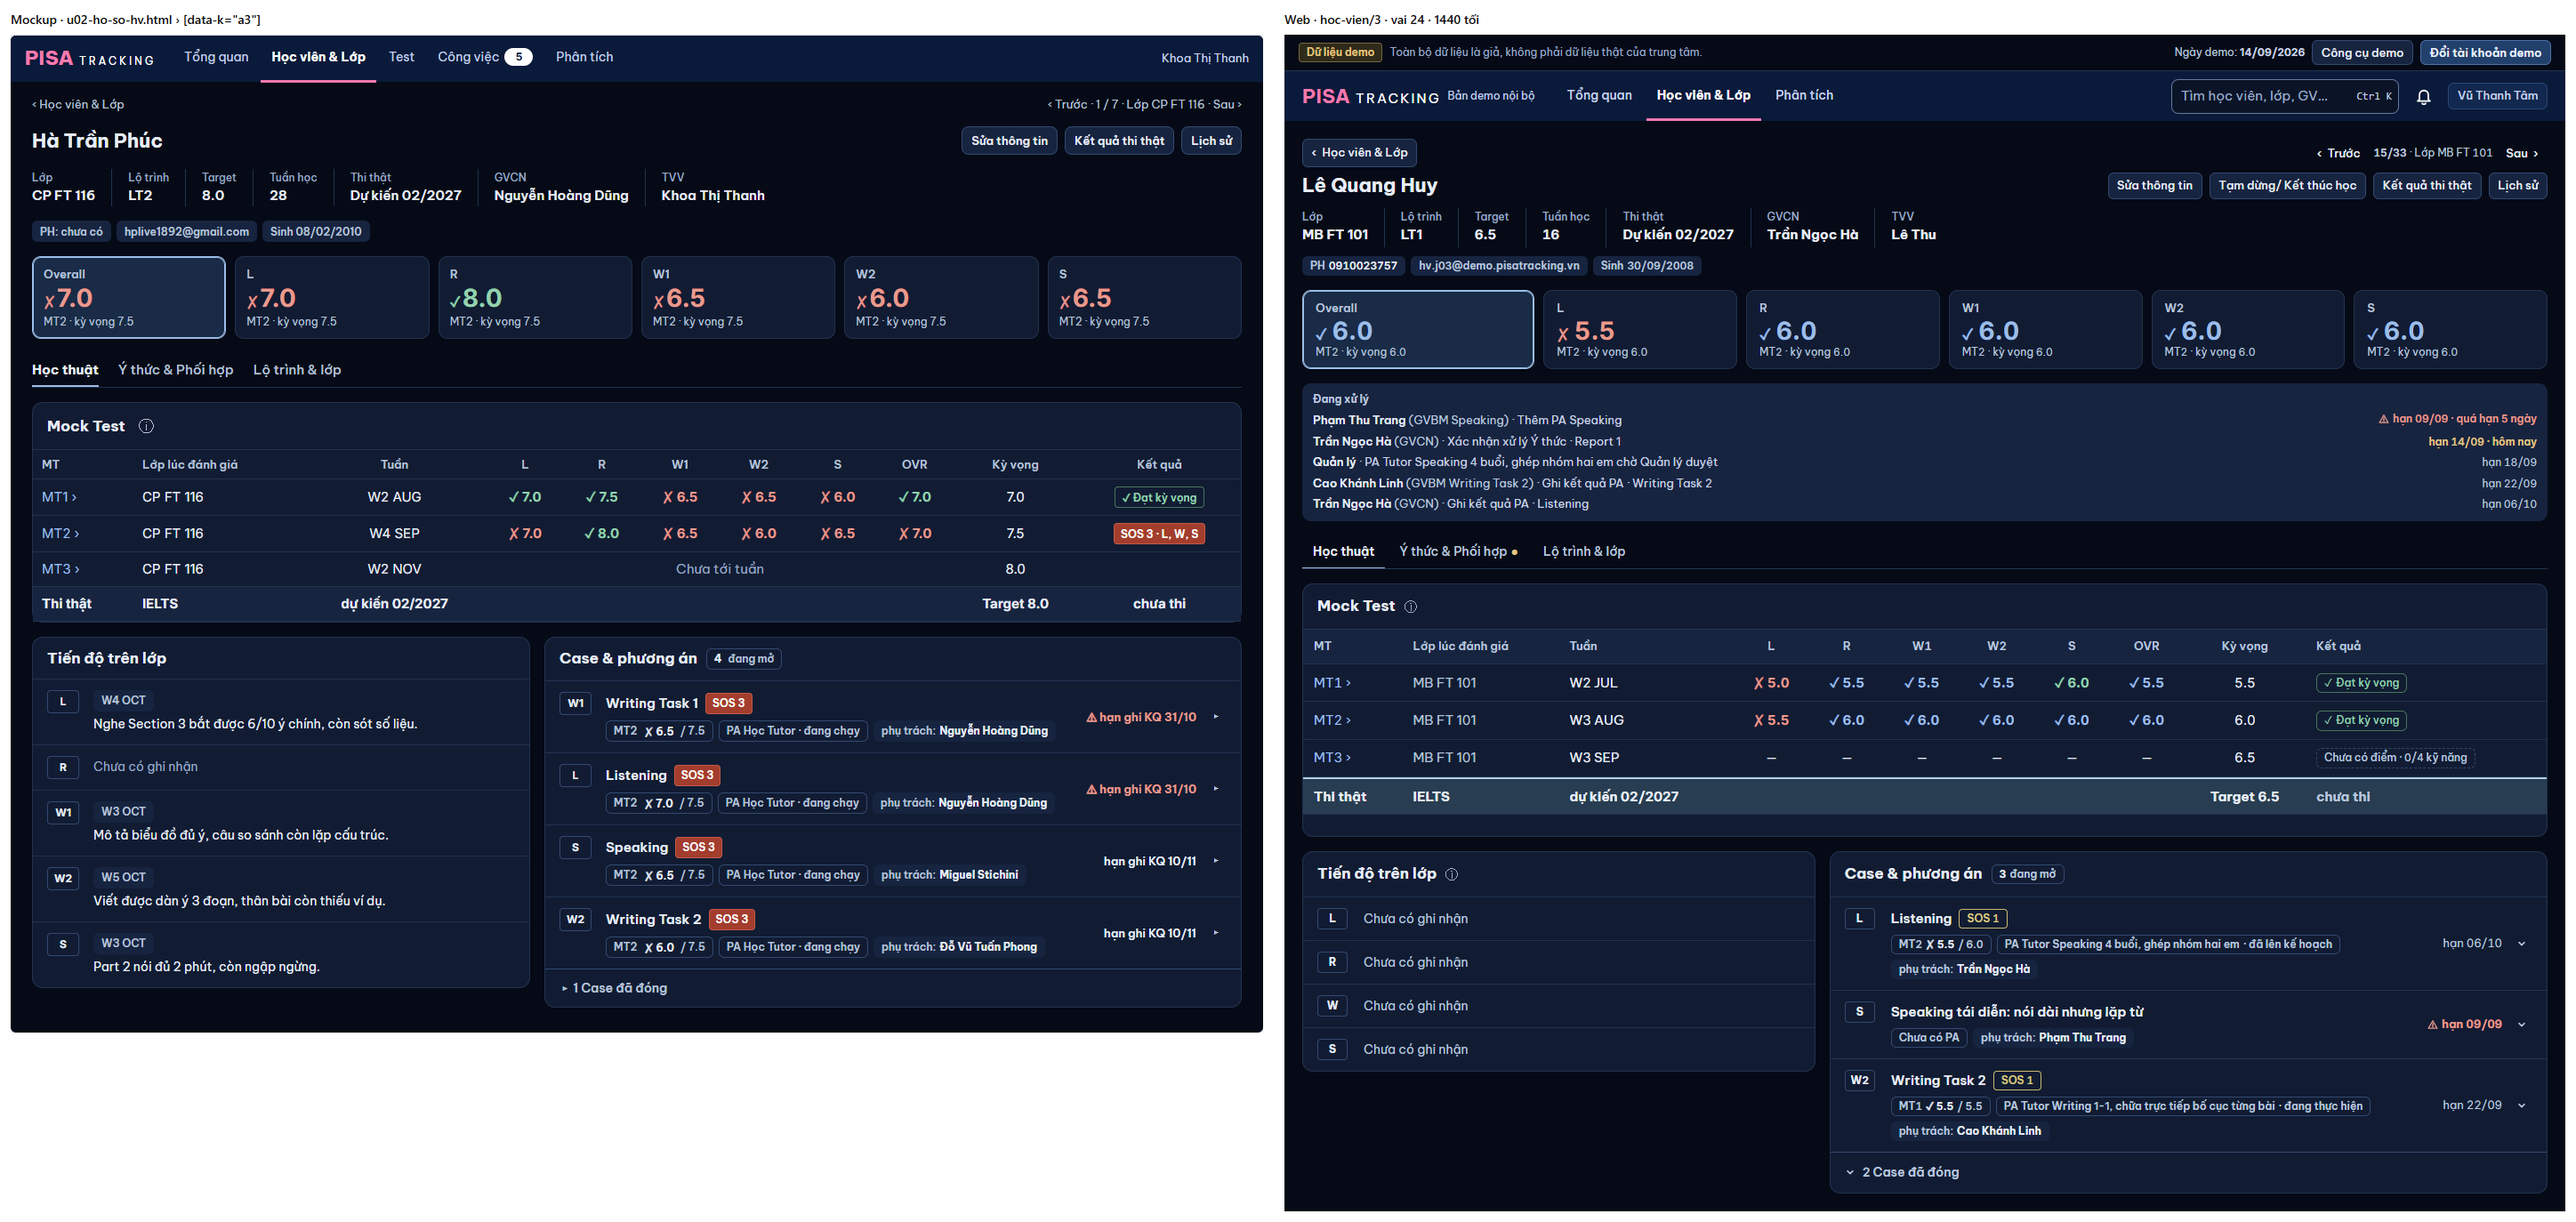
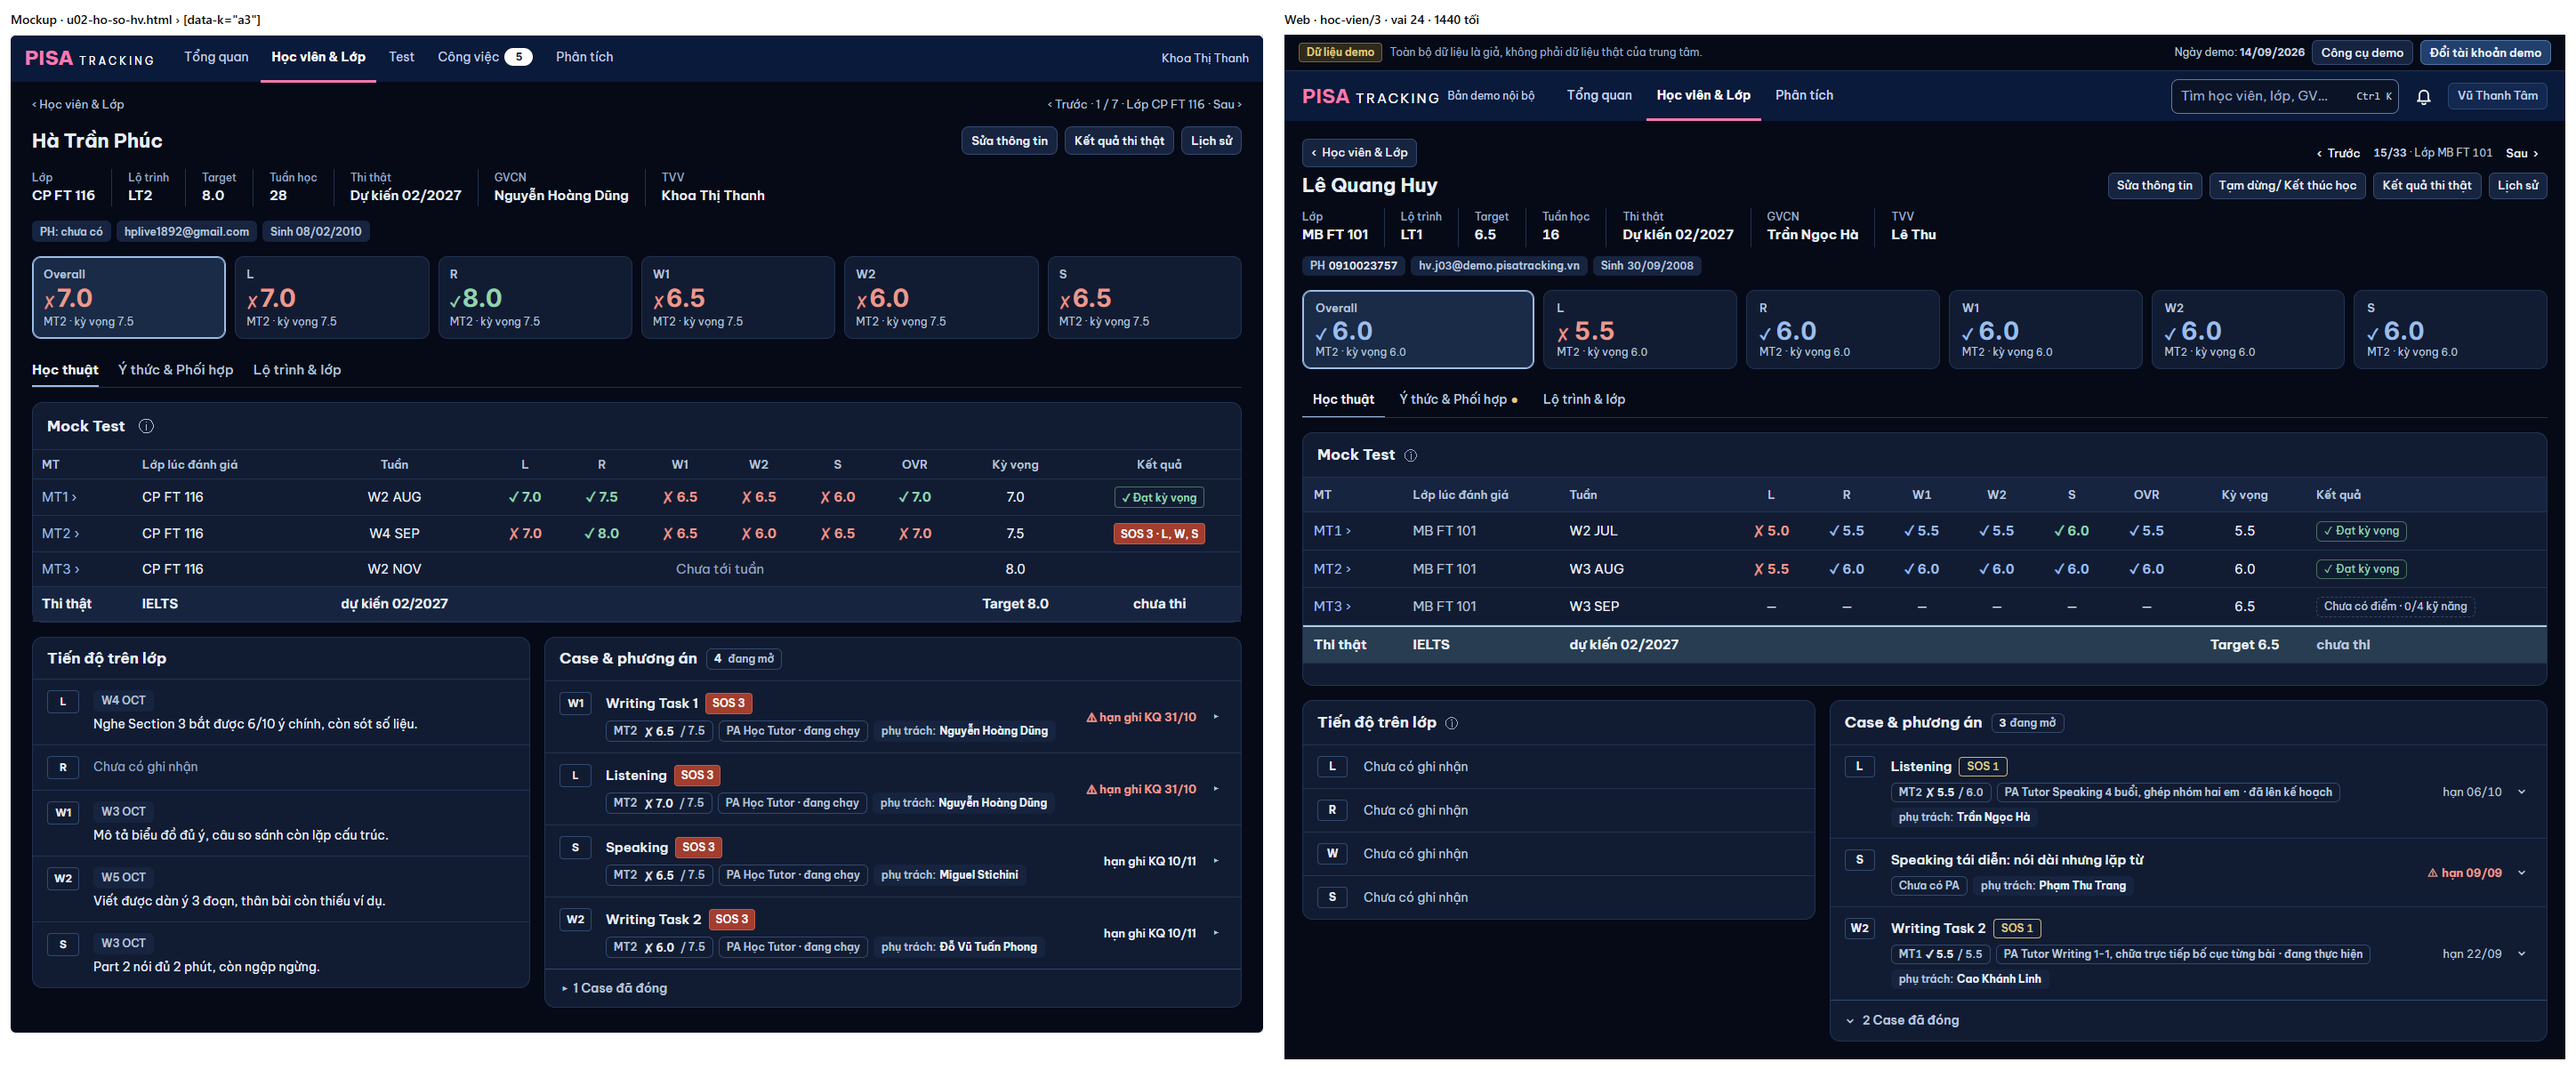
U02: bỏ khối Đang xử lý ở vai xem (chủ SP 04/11, mockup a3 không có); ảnh a3 chụp lại

diff --git a/web/src/modules/students/DauHoSo.tsx b/web/src/modules/students/DauHoSo.tsx
@@ -30,9 +30,6 @@ const dk = (s: string | null | undefined, k?: ChuKhoa | null): string | null => 
 /* EN-SOT: biến chữ máy chủ ghép sẵn ("đến MT2 · Listening", "OVR 7.0 · Đạt Target") dịch theo mẫu như `dich`; tên / mã giữ nguyên. */
 const chuViec = (x: Viec) => dichChu(x.bien ? { ...x, bien: Object.fromEntries(Object.entries(x.bien).map(([k, v]) => [k, typeof v === 'string' ? dich(v) : v])) } : x);
 const nutViec = (x: Viec) => dich(x.nut);
-const vaiViec = (x: Viec) => (x.nguoi.vai ? dich(x.nguoi.vai) : null);
-/** Người không tài khoản ("Quản lý", "Chưa có người phụ trách") là vai — dịch; tên người giữ nguyên. */
-const tenNguoi = (x: Viec) => (x.nguoi.id ? x.nguoi.ten : dich(x.nguoi.ten));
 
 /**
  * DÒNG THÔNG TIN — "em là ai" (UI-HO-SO-HV, khu c `.dau-lop`): nhãn nhỏ xám / giá trị đậm (P2) —
@@ -92,32 +89,6 @@ export function DongLienHe({ l, email, dob, tvv }: { l: LienHe | null | undefine
     <ul aria-label={t('Liên hệ')} className="m-0 flex list-none flex-wrap items-center gap-1.5 p-0">
       {muc.map((m, i) => <li key={i} className="the-phu nhat min-w-0">{m}</li>)}
     </ul>
-  );
-}
-
-/**
- * KHỐI "ĐANG XỬ LÝ" (OV-10b, mockup vai mục 3) — TVV / CX / Admin, chỉ đọc: ai đang làm việc gì với em và hạn — để trả lời phụ huynh không phải hỏi
- * từng người. Cùng nguồn với thanh "Việc của tôi" (`dauHoSo.viec` — luật người làm như Công việc, việc đã xong không có). Không có việc → không vẽ.
- */
-export function DangXuLy({ viec, homNay }: { viec: { cuaBan: Viec[]; nguoiKhac: Viec[] } | null | undefined; homNay: string | null }) {
-  /* Người xem có việc với em → thanh "Việc của tôi" đã có "việc của người khác" (gập) — không vẽ hai lần. */
-  const ds = viec?.cuaBan.length ? [] : viec?.nguoiKhac ?? [];
-  if (!ds.length) return null;
-  return (
-    <section aria-label={t('Đang xử lý')} className="rounded-[10px] bg-[color:var(--surface-2)] px-3 py-[9px]">
-      <h2 className="m-0 mb-1 text-[12px] font-bold  text-slate-400">{t('Đang xử lý')}</h2>
-      <ul className="m-0 flex list-none flex-col gap-1 p-0">
-        {ds.map((x) => (
-          <li key={x.key} className="grid grid-cols-1 items-baseline gap-x-3 gap-y-0.5 text-[13px] sm:grid-cols-[minmax(0,1fr)_auto]">
-            <span className="min-w-0 text-slate-200">
-              <b className="font-semibold text-slate-100">{tenNguoi(x)}</b>{x.nguoi.vai && <span className="text-slate-400"> ({vaiViec(x)})</span>}
-              <span className="text-slate-400"> · </span>{chuViec(x)}
-            </span>
-            <span className="sm:text-right"><HanViec x={x} homNay={homNay} /></span>
-          </li>
-        ))}
-      </ul>
-    </section>
   );
 }
 

diff --git a/web/src/modules/students/StudentDetailPage.tsx b/web/src/modules/students/StudentDetailPage.tsx
@@ -19,7 +19,7 @@ import { PanelBuocTiep } from './PanelBuocTiep.tsx';
 import { HopGiaHan, NhanSauThi } from './HopGiaHan.tsx';
 import { Nhan, NhanKq, NhanLich } from '../../ui/Nhan.tsx';
 import { CHU_DA_XONG } from '@shared/domain/index.ts';
-import { DaiChoDuyet, DaiTamDung, DangXuLy, DongLienHe, DongThongTin, ThanhViec, type Viec } from './DauHoSo.tsx';
+import { DaiChoDuyet, DaiTamDung, DongLienHe, DongThongTin, ThanhViec, type Viec } from './DauHoSo.tsx';
 import { useSession } from '../../lib/session.tsx';
 import { NganCase } from './NganCase.tsx';
 import { MissingBadge } from './MissingBadge.tsx';
@@ -322,7 +322,6 @@ export default function StudentDetailPage() {
 
       {/* UI-HO-SO-HV: thanh Việc cần làm — chỗ DUY NHẤT có việc; bấm = mở đúng chỗ làm ngay tại trang. */}
       <ThanhViec viec={data.dauHoSo.viec} homNay={homNay} onLam={lamViec} />
-      {vaiXem && <DangXuLy viec={data.dauHoSo.viec} homNay={homNay} />}
       {/* PR-VAI-b (V1/K3-47): Quản lý duyệt ngay trong hồ sơ — chỗ của thanh việc (Quản lý không có việc học thuật với em). */}
       {data.viewer.coTheDuyet && <DaiChoDuyet studentId={data.id} homNay={homNay} onDoi={reload} onThemPa={(caseId) => setOpenCase({ caseId, viec: 'them-pa' })} />}
 

diff --git a/docs/anh/u02-ho-so-hv/khop-khac.md b/docs/anh/u02-ho-so-hv/khop-khac.md
@@ -4,7 +4,7 @@ Mockup: `thiet-ke/audit-0311/u02-ho-so-hv.html` (bảng ý `13-ra-ux-a.md` 6c, U
 ngày demo 14/09, phông Be Vietnam Pro đã kiểm `document.fonts.check` = true):
 - `a1-gv-overall-1440-toi.png` — GVBM Speaking (vai 9) · em Lê Quang Huy (id 3) · mặc định Overall · Case của mình mở sẵn
 - `a2-gv-ky-nang-1440-toi.png` — cùng em, bấm ô L · Hành trình + Tiến độ + Case của L
-- `a3-vai-xem-1440-toi.png` — CX (vai 24) · vai xem: nút rời, khối Đang xử lý, không Case nào mở sẵn
+- `a3-vai-xem-1440-toi.png` — CX (vai 24) · vai xem: nút rời, không khối Đang xử lý, không Case nào mở sẵn
 - `b-gv-375-sang.png` — 375: Case trước, Tiến độ sau · bảng Mock Test một dòng mỗi lượt
 - `c-gvcn-nhieu-case-1440-toi.png` — GVCN (vai 7) · Trịnh Bảo Ngọc (id 70) · 4 Case, 2 Case của mình mở sẵn, nút việc ở dòng
 
@@ -24,7 +24,7 @@ ngày demo 14/09, phông Be Vietnam Pro đã kiểm `document.fonts.check` = tru
 | 9 | Một việc một chỗ: nút việc ở dòng tóm tắt; Case mở không lặp (chân giữ Hoàn thành Case) | `anViecChinh`, `anNutMoTa` | KHỚP | c |
 | 13 | Tiêu đề khối 17 / 700 (Mock Test · Hành trình · Tiến độ · Case) | | KHỚP | a1 |
 | 14 | Mock Test: "Chưa tới tuần" một ô; Kết quả "✓ Đạt kỳ vọng" / "SOS n · L, W" (bỏ "Đã đủ điểm", UA-Q4) | `KetQuaMt` | KHỚP | a1, c |
-| 15 | TVV / CX: nút rời, Đang xử lý, không Case mở sẵn, không nút ghi | | KHỚP | a3 |
+| 15 | TVV / CX: nút rời, không Case mở sẵn, không nút ghi; bỏ khối "Đang xử lý" (chủ SP 04/11, mockup a3 không có) | | KHỚP | a3 |
 | 16 | 375: Case trước Tiến độ; thẻ Case gập chỉ 1 dòng + hạn; Mock Test một dòng / lượt | | KHỚP | b |
 | D7 | Bằng chứng trống: "chưa có · + Thêm"; bấm mới mở khung tệp / liên kết | `ThanCase` | KHỚP | a1 |
 | 10 | Hộp hành trình 375 = khay đáy (B3) | — | BỎ ở PR này | → PR U07 (13-ra-ux-a mục 7) |
@@ -63,6 +63,7 @@ KHỚP 15 / 16 dòng có trong PR (bỏ dòng 10 chuyển U07) = 94 %.
 | + Thêm PA · Ghi kết quả · Xác nhận PA · Mô tả Case · Mở lại · Lịch sử · Dịch · ⋯ PA | như cũ, trong Case mở | GIỮ |
 | Thẻ PA đang chạy: chip "Đang chạy" + "kết quả gần nhất W3 OCT …" một dòng | tên + thẻ; nội dung trích; "Kết quả gần nhất: chip · tuần" (panel: + ghi chú) | ĐỔI hình (S4) — "đang chạy" đã ở dòng tóm tắt / đầu mục; ⋯ PA · Ghi kết quả · Cập nhật trước hạn · Chọn người dạy · Chi tiết · Nhật ký PA GIỮ |
 | Trong cột: dòng 🔒 lý do khoá + link lượt "MT1 · W4 AUG" đầu thân Case | lý do khoá ở ⓘ cạnh "Kết luận: chưa có"; mở lượt bằng "MTn ›" của bảng Mock Test cùng trang | ĐỔI vị trí (S6) — không mất thao tác |
+| Vai xem (TVV / CX / Admin): khối "Đang xử lý" dưới thanh việc (ai đang làm gì + hạn) | BỎ | ĐỔI — chủ SP 04/11 "xấu, không cần thì bỏ"; mockup a3 không có. Ai làm + hạn đã ở từng dòng Case (phụ trách · hạn); việc Ý thức ở tab Ý thức & Phối hợp. Không phải thao tác (chỉ đọc) |
 | Bằng chứng: khung kéo thả luôn hiện | "chưa có · + Thêm" → bấm mở khung (có bằng chứng: như cũ) | ĐỔI — D7 |
 | Tiến độ ở Overall: danh sách mọi kỹ năng + "+ Ghi tiến độ" | Overall chỉ đọc (gần nhất từng kỹ năng); ghi / sửa / xoá khi chọn kỹ năng | ĐỔI — N33 ② (mất ghi ở Overall: chọn ô kỹ năng là có, ít hơn một bấm) |
 | Mock Test 375: thẻ đủ điểm từng kỹ năng | một dòng MTn › · tuần · OVR · Kết quả; điểm từng kỹ năng ở hồ sơ lượt | ĐỔI — mockup B1 |
